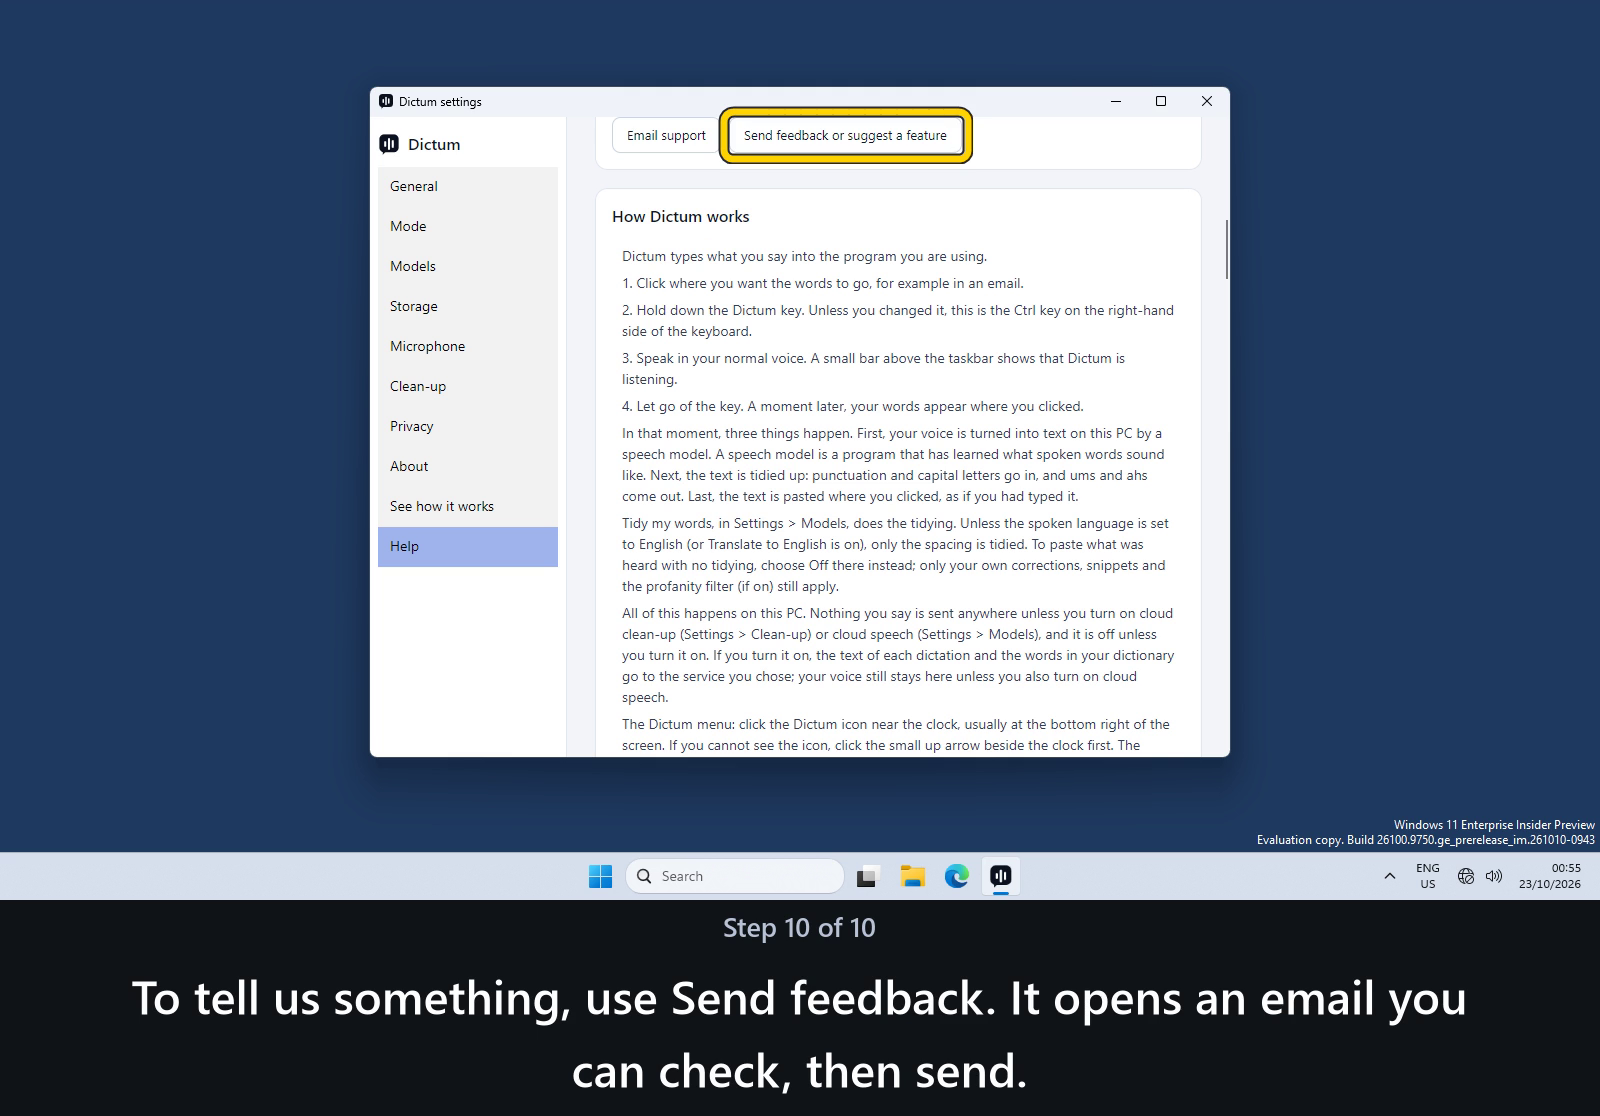
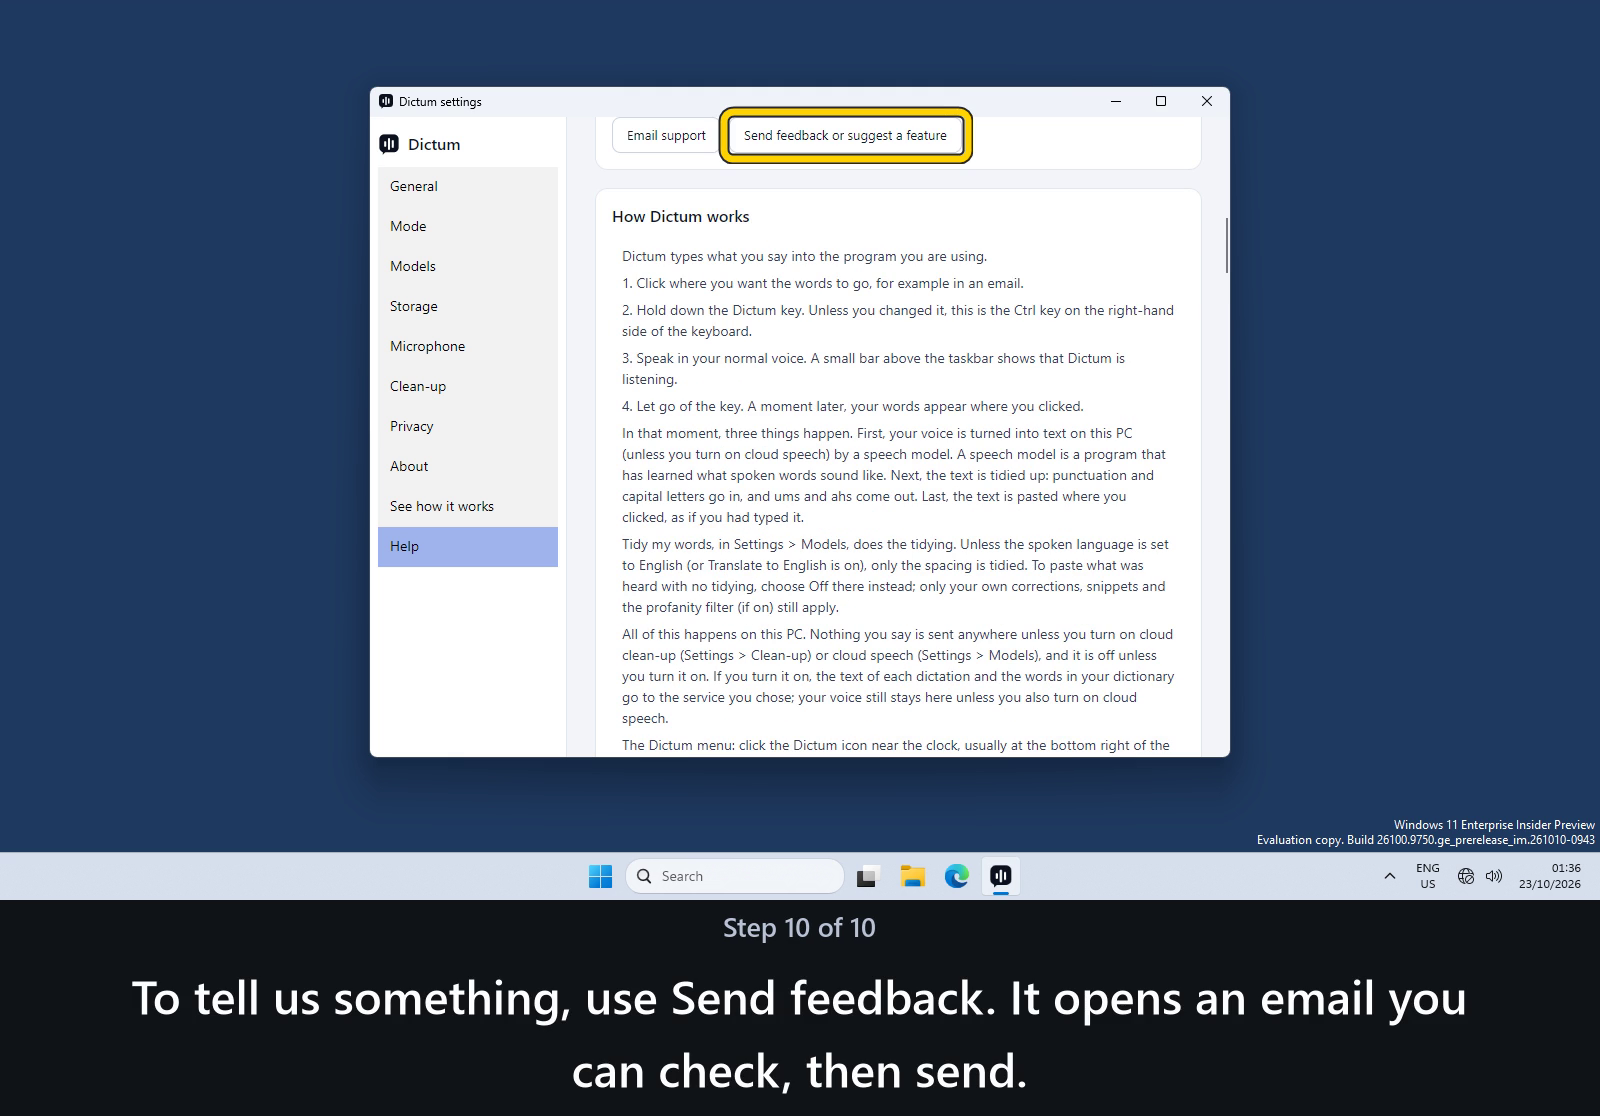
Demos: help re-recorded from the 1.3.0 build (all three new questions in the index)
Merged origin/main (7d2dfed), rebuilt the Setup at the merged head (1.3.0) and recorded help again: the index now lists "Can I give the clean-up my own instructions?". The voice-answer step's lookup text follows main's new first sentence ("Nowhere, by default."); captions unchanged. DEMOS.md notes the two recordings and the site figcaption that still says the cloud-cleanup demo does not agree.

Changed region(s): [[0.375, 0.3961, 0.75, 0.6703]]

diff --git a/docs/DEMOS.md b/docs/DEMOS.md
@@ -261,7 +261,7 @@ For 1.2, a new or renamed control needs only its data file changed: the scripts 
 - **Not yet shown: the Help paragraph "In this help, … Simple view …".** The help demo jumps past it, so that sentence
   is never on screen. Noted for a later recording (lens on 7900e49).
 - **The cloud clean-up demo never holds a real key.** Since 1.3 (23/10/2026) it uses the **Create the key file…** button (Settings > Clean-up, beside Open the settings folder), which makes `.env` in Dictum's settings folder with the header and the line `ANTHROPIC_API_KEY=your-key-here` and opens it; the demo saves it unchanged in Notepad, clicks Use cloud clean-up…, reads the consent dialog and **agrees** with the placeholder in place of a key. The placeholder `your-key-here` counts as not set (`SecretStore.Placeholder`), so the card shows "On, but waiting for your ANTHROPIC_API_KEY: nothing is sent until you add it to .env." (the sandbox has no network and no key either). Before 1.3 the demo cancelled at the consent dialog and described the On: line in a caption. The "On: …" state line and the tray panel's "Cloud clean-up on · text leaves this PC" are still not shown on screen; `HelpPageTests.The_cloud_answer_walks_through_the_app_as_built` checks them headlessly with a stand-in key.
-- **Help still describes the old key-file steps.** `HelpText.CloudAnswer` (and `site/help.html` section 8, which carries the same steps word for word) steps 2 to 15 say Open the settings folder, Ctrl+L, Ctrl+C, Notepad, Save as, All files, `\.env`. The 1.3 demo shows Create the key file… instead, so until the owner approves Help copy for that button the demo and the written steps differ (the page's caption "The steps above say the same in words" is then not true of the new demo). Not changed in this lane.
+- **Help and the cloud-cleanup demo (after the merge of main at 7d2dfed).** Main's Help answer (`HelpText.CloudAnswer`) now leads with the Create the key file… paragraph and keeps the Notepad steps (Open the settings folder, Ctrl+L, Ctrl+C, Save as, All files, `\.env`) as the fallback, so the demo and Help agree. `site/help.html` section 8's figcaption for this demo still says it "stops at the consent step without agreeing"; the 1.3 demo agrees with the placeholder (the card then says it is waiting for the key). Not changed in this lane.
 - **`.env` opens in the borrowed Notepad.** A clean Windows has no program for `.env` files, and the sandbox has no Notepad, so the cloud-cleanup demo's prepare step `openWith` points `.env` at the borrowed classic Notepad (`C:\sbx\notepad\notepad.exe`), as a PC whose editor is set for `.env` files would behave. On a real PC the file opens in whatever program Windows has for `.env` (what the Windows 11 Notepad does is not verified). Ctrl+S in Notepad changes nothing on disk here, because the demo does not edit the file; the caption says so.
 - **Dialog buttons: a mouse click did not reach Dictum's consent dialogs in the sandbox.** In four runs on 23/10/2026 (Setup of 4a4072a), the pointer clicked Allow cloud clean-up (and in two test runs, Cancel) at the right place, the dialog vanished from the screen, and nothing was chosen: no "agreed" log line, no `consent.json`, no status line, and the dialog stayed in UI Automation's window list. With a debug build that logged `Window.Closing` and `Closed` (not committed), neither fired after the click, so the dialog was not closed. Inferred, not observed: the click reached the Settings window and brought it in front of the dialog, which is a separate, unowned window. Pressing Shift+Tab then Enter chose Allow correctly (consent recorded, the waiting line shown). `invokeClick` is therefore used for the buttons of the two consent dialogs (the pointer still glides to the button and the highlight shows it). Not established: whether a real mouse click does the same on a real PC (the sandbox's click is synthetic `SendInput`). The 1.2.1 cloud-cleanup recording clicked Cancel and went on without checking the dialog's result, so it may have shown the same.
 - **Start cannot find Notepad in the sandbox.** Start's search said "No results found for 'Notepad'", and the sandbox has
@@ -278,8 +278,8 @@ For 1.2, a new or renamed control needs only its data file changed: the scripts 
[1 lines of base64/hex data omitted]
   About, so no frame shows a version string (checked by eye on the raw frames of the six demos).
 
[1 lines of base64/hex data omitted]
-- **`help` shows two of the three new questions.** The "Questions on this page" list now includes "What is clean-up?" and "How can I see what Dictum does with my words?". "Can I give the clean-up my own instructions?" is not in `HelpText.cs` at 4a4072a, so it is not on screen; the demo's steps and captions are unchanged.
[2 lines of base64/hex data omitted]
 - **`own-instructions` and `cloud-speech` are not on the site's help page.** DEMOS.md does not say how demos are listed there, and `site/help.html` has no section for either feature yet, so only the GIF and the poster are added to `site/img/demos/`.
 - **`cloud-speech` types a placeholder model name.** Cloud speech has no default model (`SpeechPresets`: the model is always the user's), so the demo types `your-model-here` rather than a real model id, and never clicks Send my voice to …: it clicks Keep speech on this PC.
 - **Recording tools added with 1.3:** `demo-inside.ps1` also records Dictum's state when a step fails (progress.txt), and at the end copies a listing of Dictum's settings folder and its `settings.json` and `consent.json` (never `.env`) into the run folder, to show what a demo changed.
